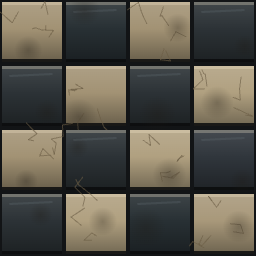
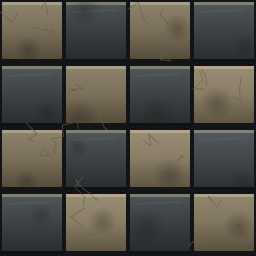
PT-083 R1, R2 (first half), R4: the guns' brass and enamel repainted darker and weathered (the flare cannon's signal orange replaces its toy yellow), the checker floor quieter so it does not alias into a weave at 480 wide, the Hollow Stair lit with a second, warm light so it is not one blue. tools/d

diff --git a/tools/baker/recipes_polish.js b/tools/baker/recipes_polish.js
@@ -72,17 +72,17 @@ export const recipesPolish = {
         // 2 brass: warm gold, a bright band, engraved lines picked out dark, green verdigris pooled in the low parts
         at(2, () => {
           body([
-            [0, '#f6d27a'],
-            [0.15, '#ffe9a8'],
-            [0.3, '#cfa23e'],
-            [0.75, '#8a6420'],
-            [1, '#4a3410'],
+            [0, '#b8974e'],
+            [0.15, '#d4b56c'],
+            [0.3, '#93722e'],
+            [0.75, '#5e4418'],
+            [1, '#33240a'],
           ]);
           for (const y of [34, 66, 98]) K.stroke(6, y, CELL - 6, y, '#5a400e', 2.2, 0.8);
           for (let k = 0; k < 7; k++) K.dot(12 + k * 17, 66, 3.4, '#5a400e', 0.85);
           K.strokes(0, 84, CELL, 44, 14, { pal: ['#4f9a7a', '#6ab894'], len: [6, 18], wt: [3, 6], a: [0.35, 0.7], jit: 1.5 });
-          wear(8, '#fff4cc');
-          rim('#fff8dc', '#2a1c06');
+          wear(8, '#e0cc94');
+          rim('#e8d6a4', '#2a1c06');
         });
         // 3 hammered copper: red-brown skin dimpled all over (a lit lip and a dark lip to each dimple)
         at(3, () => {
@@ -100,14 +100,14 @@ export const recipesPolish = {
           }
           rim('#ffc08a', '#2a1006');
         });
-        // 4 yellow enamel: a safety yellow, glossy on top, chipped to dark steel at the edges, grease run down from the top
+        // 4 signal enamel: a signal orange gone dull with weather, chipped to dark steel at the edges, grease run down from the top
         at(4, () => {
           body([
-            [0, '#ffe066'],
-            [0.18, '#fff2a6'],
-            [0.32, '#f0c02c'],
-            [0.8, '#b88a10'],
-            [1, '#6a4c08'],
+            [0, '#c9823a'],
+            [0.18, '#e09c54'],
+            [0.32, '#b0682a'],
+            [0.8, '#74401a'],
+            [1, '#3e220c'],
           ]);
           for (let k = 0; k < 16; k++) {
             const x = K.R(0, CELL),

diff --git a/src/engine/defs.js b/src/engine/defs.js
@@ -449,11 +449,11 @@ export const LOOKS = {
     // -> 3, lamps 1.9 -> 2.6, a warmer light grade)
   },
   stair: {
-    hemi: [0x5c6090, 0xc0c8ff, 1.75],
-    sun: [0xe8f0ff, 0.85, [9, 20, -6]],
-    lamp: 1.6,
+    hemi: [0x70708c, 0xd8c8b0, 1.6],
+    sun: [0xfff0dc, 0.95, [9, 20, -6]],
+    lamp: 1.8,
     exposure: 1,
-    grade: GR([0.86, 0.92, 1.2], [1.1, 1.06, 1.0], 1.0),
+    grade: GR([0.92, 0.94, 1.08], [1.12, 1.05, 0.94], 1.0),
     shade: { foot: 0.3, ao: 0.4, patch: 0.1 },
     // the Hollow Stair: deep indigo, the light comes up the shaft (a bright ground in the hemisphere) // the lamps brighter, so its dark has highlights
     // in it (it measured murky: dark on average AND a narrow spread); a less saturated sky light and a stronger sun, so the drum's ribs and courses

diff --git a/tools/baker/recipes_polish2.js b/tools/baker/recipes_polish2.js
@@ -502,7 +502,7 @@ export const recipesPolish2 = {
           const x = c * 64,
             y = r * 64,
             light = (r + c) % 2 === 0;
-          const base = light ? K.pick(['#a8987a', '#b0a080', '#a29274']) : K.pick(['#2c3236', '#30363c', '#283034']);
+          const base = light ? K.pick(['#82775f', '#8a7e66', '#7c715a']) : K.pick(['#3e4346', '#42484c', '#3a4043']); // quiet: a loud checker aliases into a weave at the game's low width
           T.block(x + 2, y + 2, 60, 60, mix(base, '#ffffff', light ? 0.12 : 0.1), base, mix(base, '#000000', 0.35), {
             lip: 3,
             lit: mix(base, '#fff4dc', 0.4),
